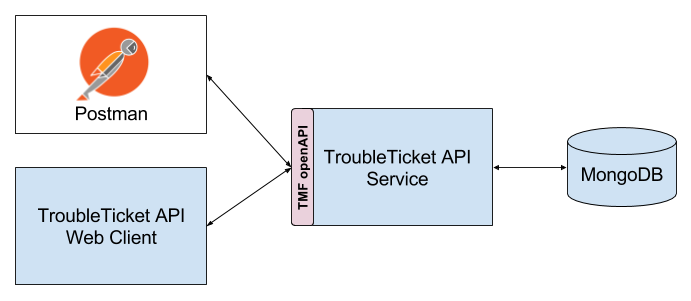
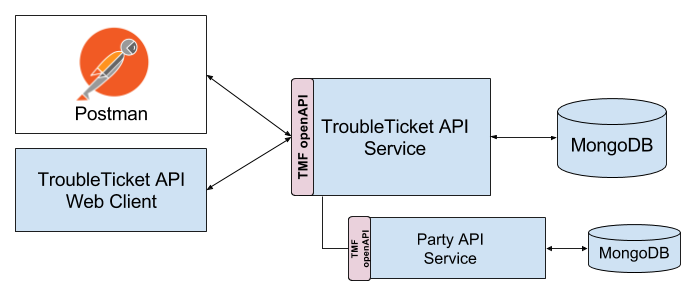
party embedded in hal support

diff --git a/api/controllers/troubleTicketHAL.js b/api/controllers/troubleTicketHAL.js
@@ -3,11 +3,14 @@
 var config = require( './config.json' );
 
 var util = require('util');
+var Promise = require('promise');
 
 var mongoUtils = require('../utilities/mongoUtils')
 
 var MongoClient = require('mongodb').MongoClient;
 var assert = require('assert');
+
+var axios = require('axios');
 
 var troubleTicketStates = require('../utilities/troubleTicketStates')
 
@@ -53,9 +56,6 @@ module.exports = {
     var collection = db.collection('troubleTicket');
 
     const query = { id: troubleTicketId.toString() }
-
-    // Update the document
-    // db.troubleTicket.update( {id: "123"}, { $set: { status: "Rejected"} })
 
     var patchDoc = { $set: troubleTicket }
 
@@ -170,29 +170,59 @@ module.exports = {
 
   function troubleTicketGetHAL(req, res) {
 
-  var troubleTicketId = parseInt(req.swagger.params.troubleTicketId.value);
+    var troubleTicketId = parseInt(req.swagger.params.troubleTicketId.value);
 
-  // Use connect method to connect to the server
-  MongoClient.connect(mongourl, function(err, db) {
-    assert.equal(null, err);
+    // Use connect method to connect to the server
+    MongoClient.connect(mongourl, function(err, db) {
+      assert.equal(null, err);
 
-    // Get the documents collection
- 
-    var collection = db.collection('troubleTicket');
+      // Get the documents collection
+      var collection = db.collection('troubleTicket');
+      const query = { id: troubleTicketId.toString() }
 
-    const query = { id: troubleTicketId.toString() }
+      // Find one document
+      collection.findOne( query, 
+        mongoUtils.fieldFilter(req.swagger.params.fields.value), function(err, doc) {
+        const halDoc = generateTroubleTicketDoc( doc, req.url );
+    
+        assert.equal(err, null);
 
-    // Find one document
-    collection.findOne( query, 
-      mongoUtils.fieldFilter(req.swagger.params.fields.value), function(err, doc) {
-      doc= generateTroubleTicketDoc( doc, req.url );
-  
-      assert.equal(err, null);
+        if ( req.swagger.params.embed.value == "party" ) {
+          // embed party instance in _embedded element
 
-      res.json( doc );  
+          halDoc._embedded = []
+
+          var partyPromises = []
+
+          // Create array of promises to get party instances
+          doc.relatedParty.forEach( function(party){
+            partyPromises.push( generatePartyDoc(config.tt_host + party.href, halDoc._embedded));
+          })
+
+          // Request instances
+          Promise.all( partyPromises ).then( function(){ res.json( halDoc )} )
+        }
       })
     });
   }
+
+function generatePartyDoc( partyUrl, embeddedDoc ) {
+  return new Promise( function( resolve) {
+          axios.get( partyUrl, {
+            dataType: 'json',
+            headers: {
+              'Accept': 'application/hal+json'
+            },
+            mode: 'no-cors' 
+          }).then(function (response) {
+              embeddedDoc.push( response.data )
+              resolve();
+          }).catch(function (error) {
+              console.log(error)
+              reject();
+          })
+    });
+}
 
   // Create a new troubleTicket: POST /v2/troubleTicket
 
